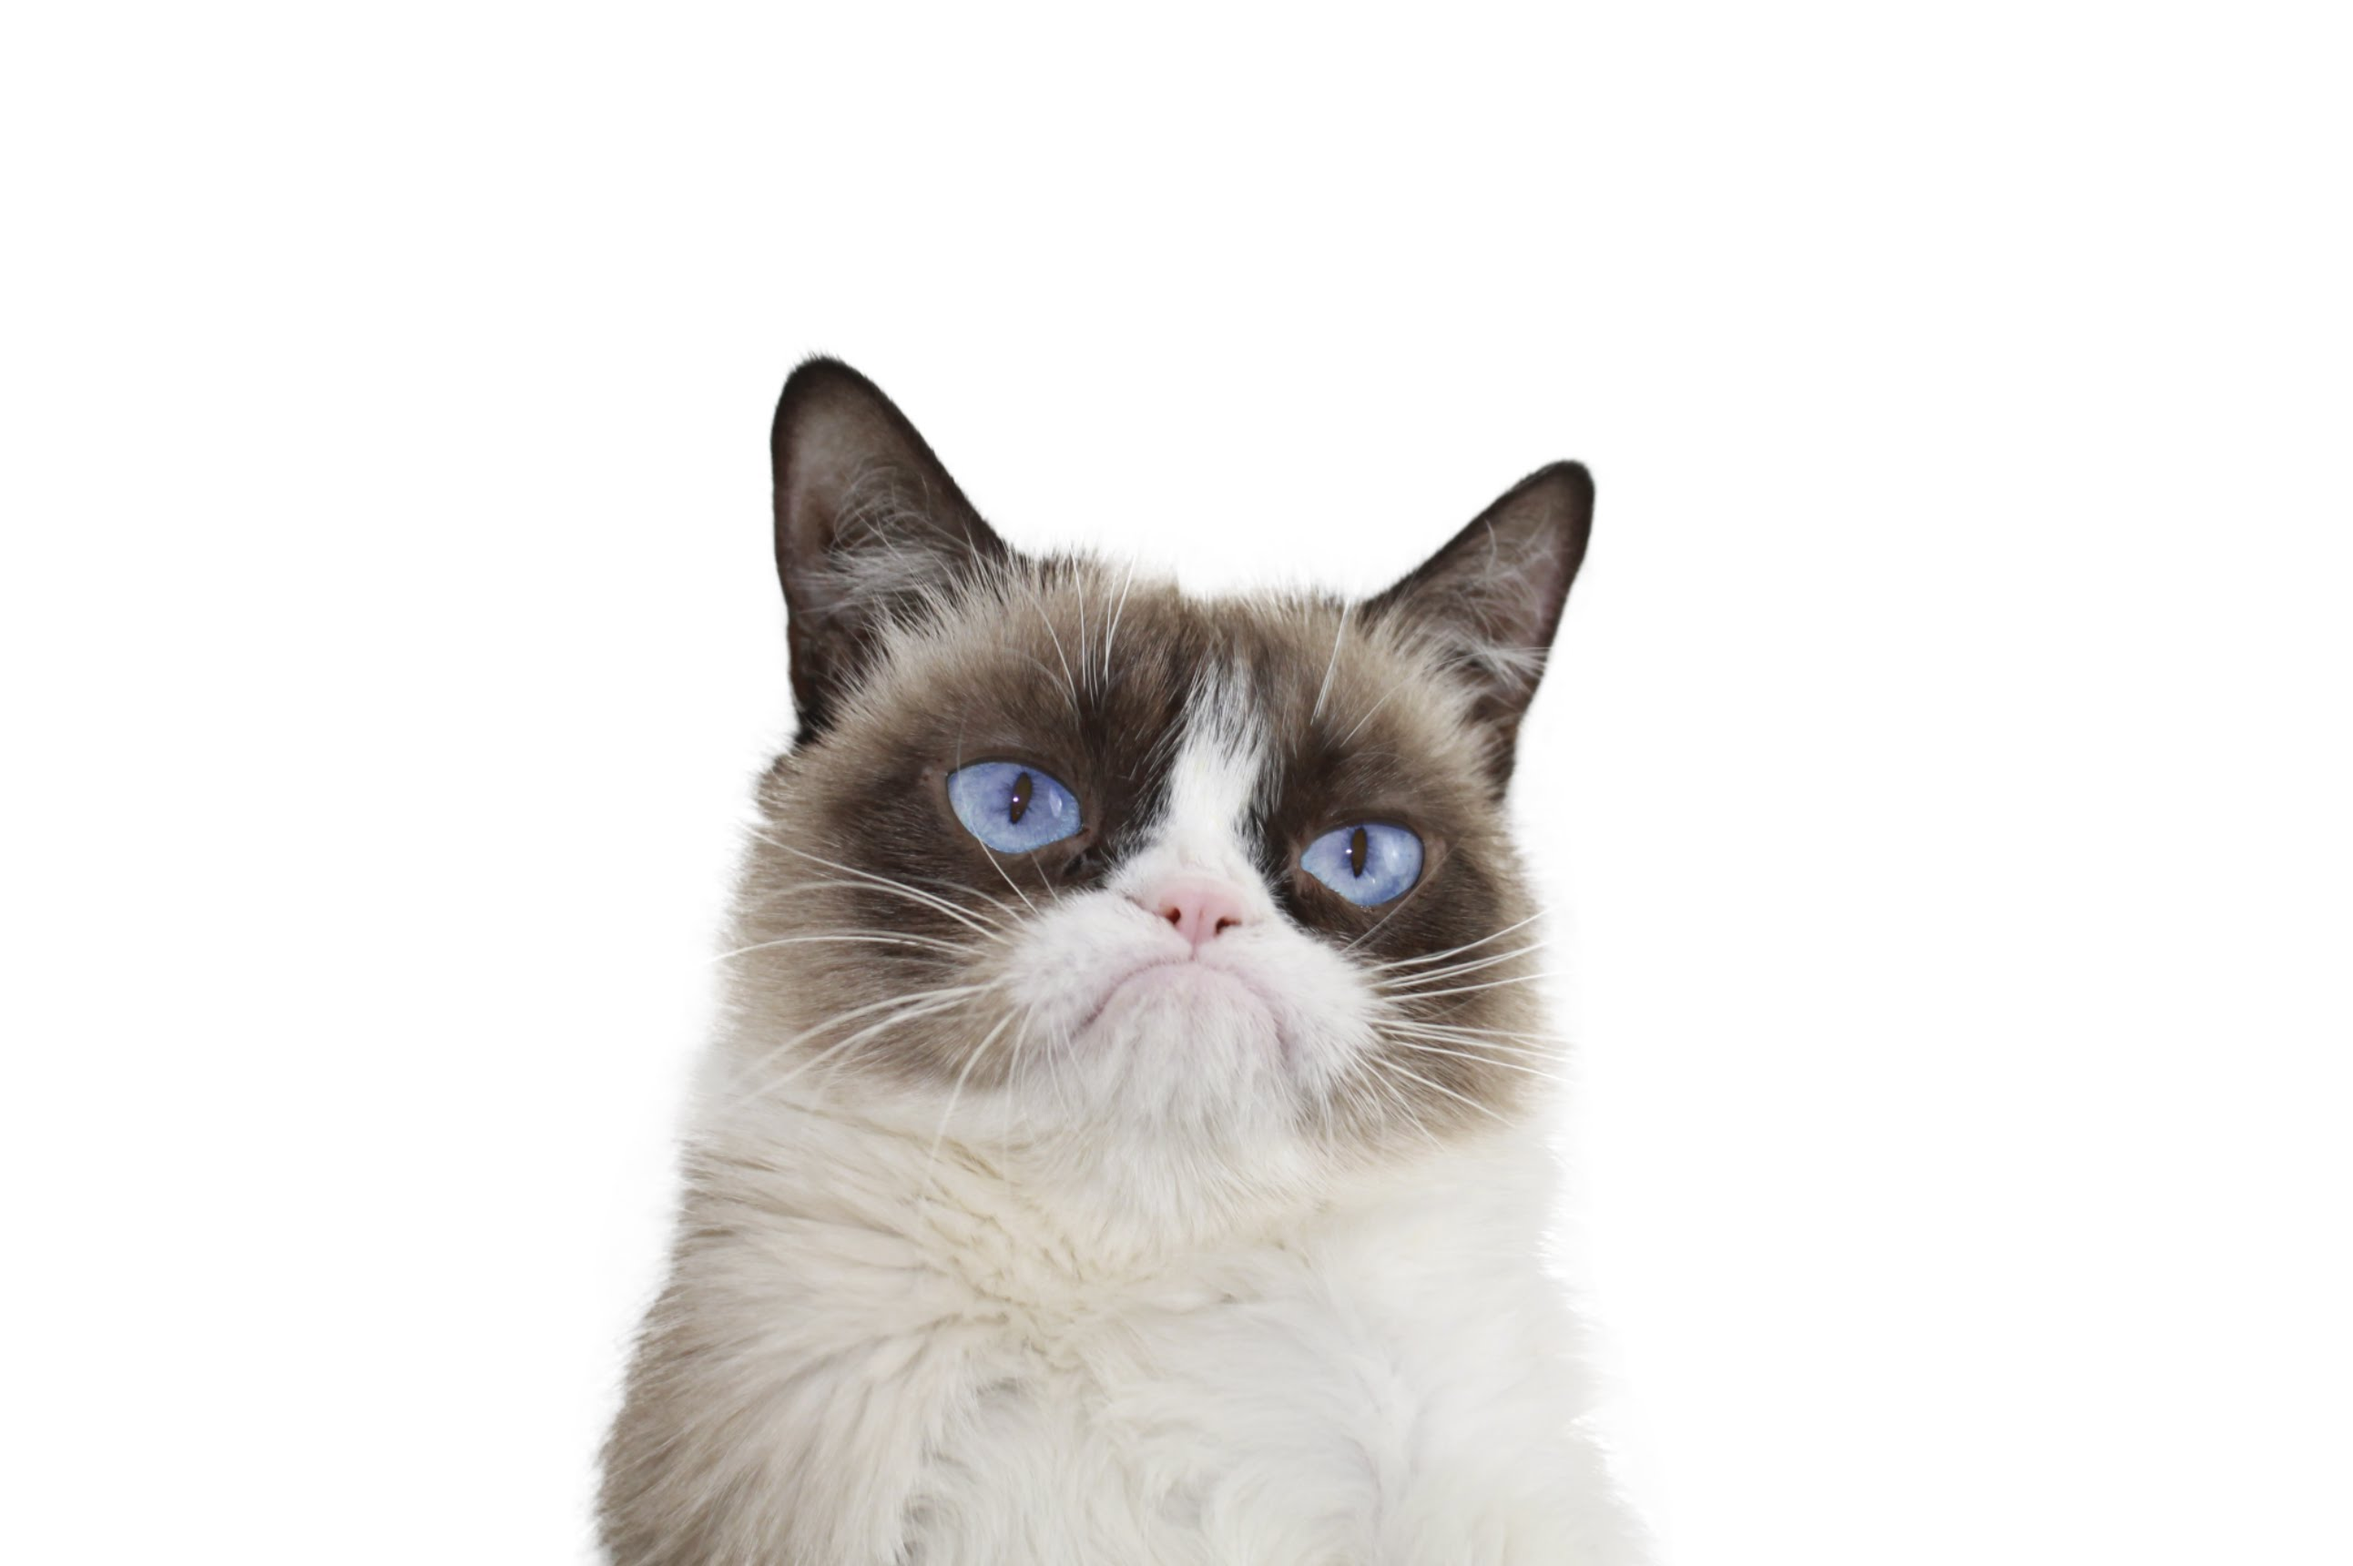
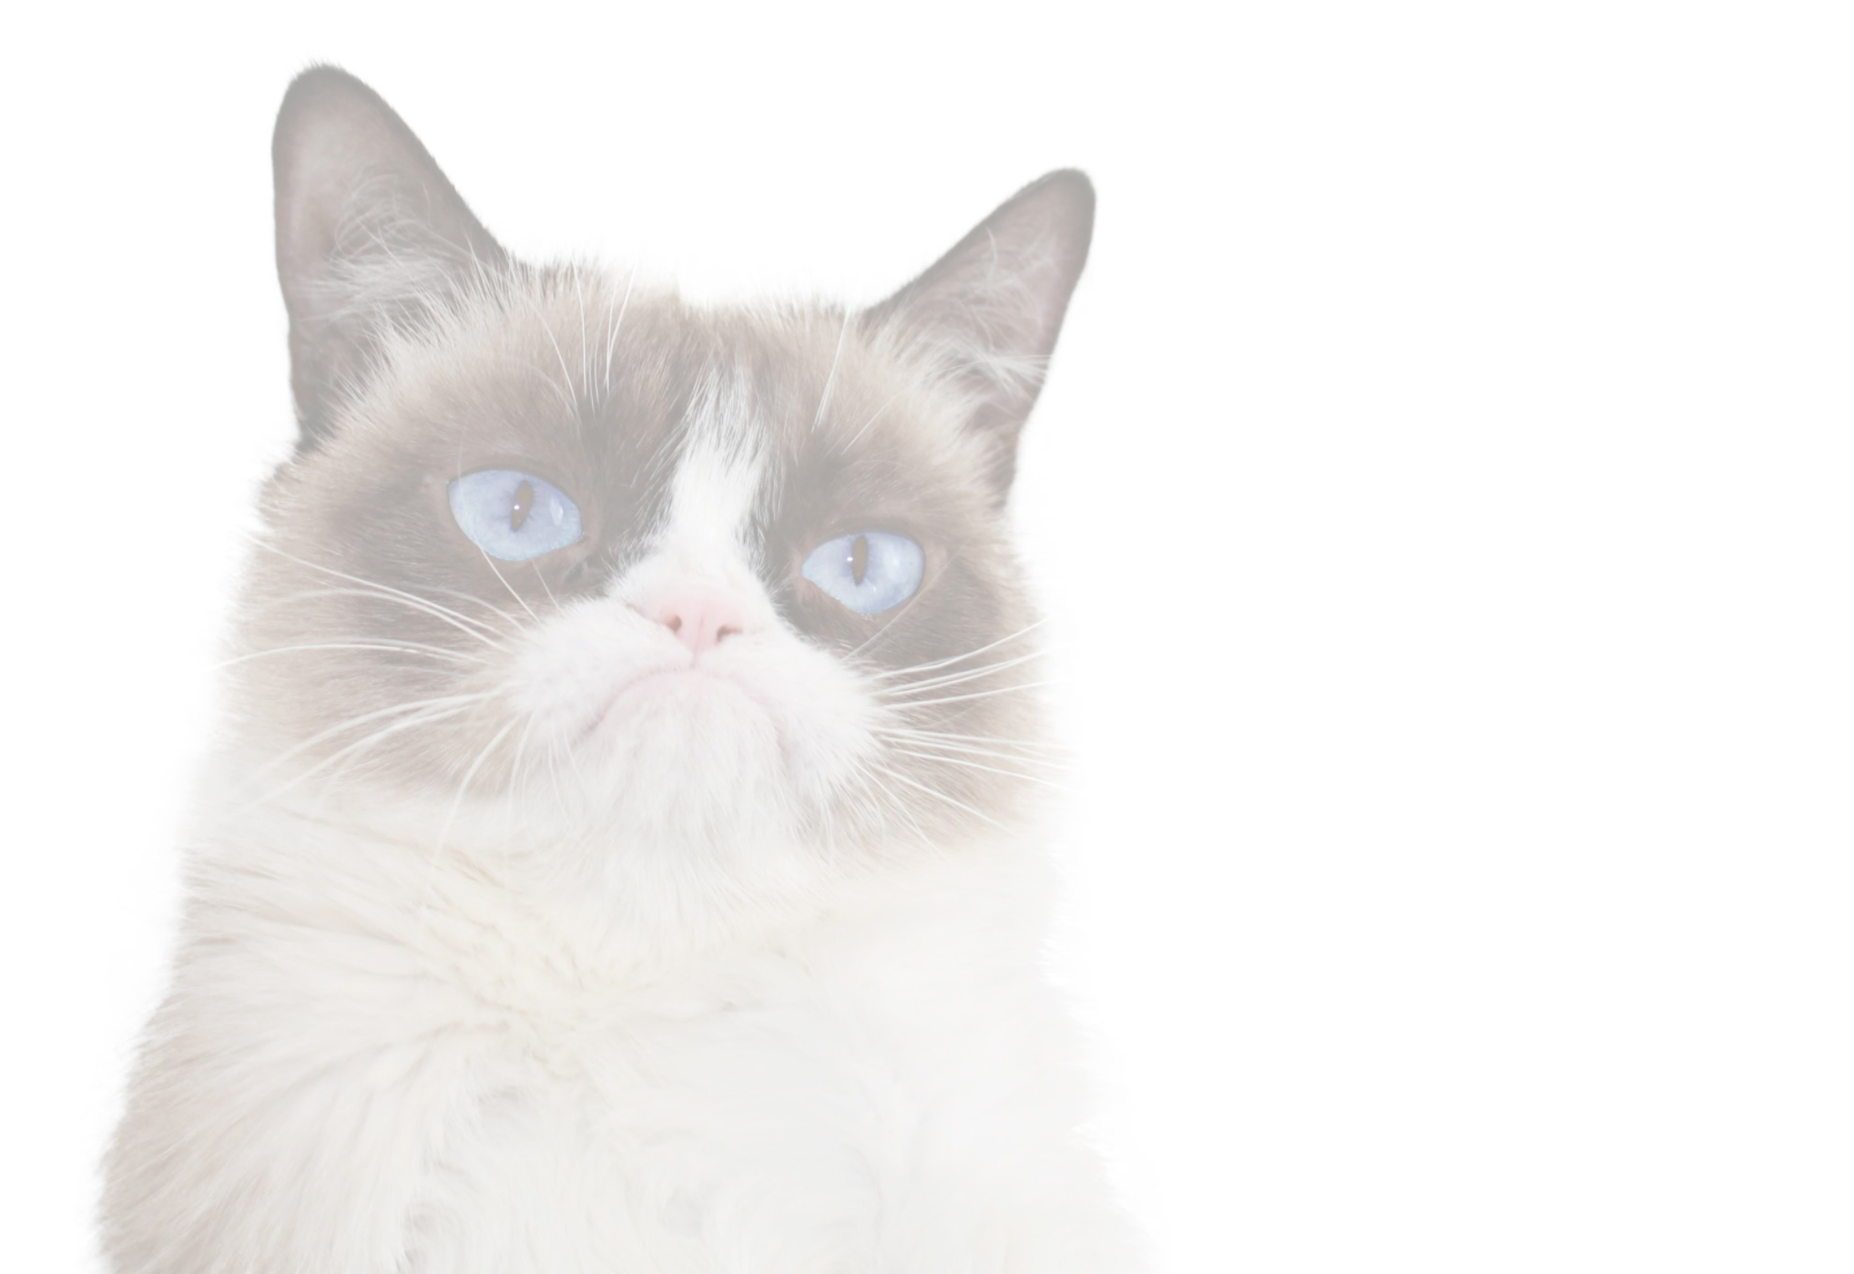
Updated 404 page

diff --git a/src/app/timers/timer/timer.component.ts b/src/app/timers/timer/timer.component.ts
@@ -9,11 +9,13 @@ import {TimerService} from "./timer.service";
   providers: [TimerService]
 })
 export class TimerComponent implements OnInit {
-  private _minutesToCount:number;
-  private _remaining:string;
-  private _remainingPercentage:number;
+  private SNACKBAR_DURATION = 5000;
 
-  constructor(private _timerService:TimerService, public snackBar: MdSnackBar) {
+  private _minutesToCount: number;
+  private _remaining: string;
+  private _remainingPercentage: number;
+
+  constructor(private _timerService: TimerService, public snackBar: MdSnackBar) {
   }
 
   ngOnInit() {
@@ -31,29 +33,32 @@ export class TimerComponent implements OnInit {
     this._timerService.remainingPercentage.subscribe(
       newPercentage => {
         this._remainingPercentage = newPercentage;
+        if (this._remainingPercentage === 100) {
+          this.snackBar.open('Pomodoro finished!', 'OK');
+        }
       }
     );
     let snackBarRef = this.snackBar.open('New pomodoro started', 'OK', {
-      duration: 5000,
+      duration: this.SNACKBAR_DURATION,
     });
   }
 
   public stopTimer() {
     this._timerService.stopTimer();
-    let snackBarRef = this.snackBar.open('Pomodoro stopped', 'OK', {
-      duration: 5000,
+    this.snackBar.open('Pomodoro stopped', 'OK', {
+      duration: this.SNACKBAR_DURATION,
     });
   }
 
   public resetTimer() {
     this._timerService.resetTimer();
-    let snackBarRef = this.snackBar.open('Pomodoro cancelled', 'OK', {
-      duration: 5000,
+    this.snackBar.open('Pomodoro cancelled', 'OK', {
+      duration: this.SNACKBAR_DURATION,
     });
   }
 
   @Input()
-  set minutesToCount(minutesToCount:number) {
+  set minutesToCount(minutesToCount: number) {
     this._minutesToCount = minutesToCount;
   }
 }

diff --git a/src/app/page-not-found/page-not-found.component.css b/src/app/page-not-found/page-not-found.component.css
@@ -1,0 +1,19 @@
+.not-found-card {
+  margin-top: 2rem;
+  background-image: url("/assets/img/grumpy_cat.jpg");
+  background-size: contain;
+  background-repeat: no-repeat;
+}
+
+.error-code {
+  font-size: 12rem;
+  text-align: right;
+  margin: 0;
+  color: #424242;
+}
+
+.error-message {
+  font-size: 2.5rem;
+  margin: 2.5rem 0 2rem 0;
+  color: #424242;
+}

diff --git a/src/app/page-not-found/page-not-found.component.html b/src/app/page-not-found/page-not-found.component.html
@@ -1,3 +1,6 @@
-<p>
-  page-not-found works!
-</p>
+<md-card class="tomatito-card not-found-card">
+  <md-card-content class="center">
+    <h1 class="error-code">404</h1>
+    <p class="error-message">Grrr! We cat find that page right meow...</p>
+  </md-card-content>
+</md-card>

diff --git a/src/app/timers/timer/timer.service.ts b/src/app/timers/timer/timer.service.ts
@@ -81,7 +81,7 @@ export class TimerService {
   }
 
   get initialTime() {
-    return this._minutesToCount + ":00";
+    return (this._minutesToCount < 10 ? "0" + this._minutesToCount : this._minutesToCount) + ":00";
   }
 
   get remaining() {
